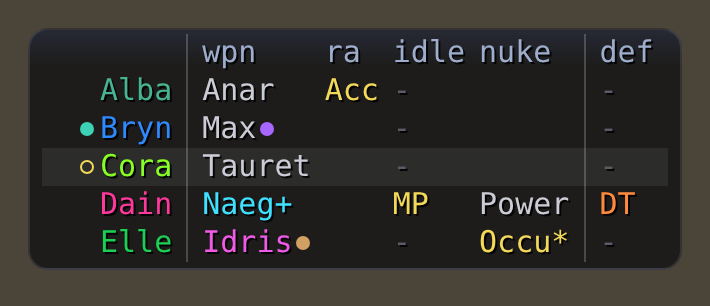
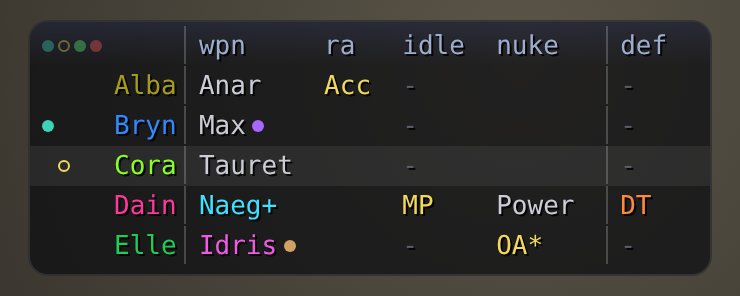
HUD fixed width with labelled state spots; RNG/COR colours; OA (#84)
* /ejenter /ejexit: Einherjar through Bellhop

/ejenter trades your lamp to the targeted Entry Gate with Bellhop's
tradenpc (a Smoldering Lamp reserves the chamber, else a Glowing Lamp
enters); the gate's menu stays manual. /ejexit is /bh drop "Glowing
Lamp". Both say so when the Bellhop plugin isn't loaded (Ashita only).
COMMANDS: the hand-out step (/bh tradeplayer + /bh whitelist).

Claude-Session: https://claude.ai/code/session_01GjFPLzfJPpNNSrzg4WuDgg

* /ejenter /ejexit: native Ashita Einherjar (Valkyrie's gate exchange), no Bellhop

/ejenter <chamber> reserves with the Smoldering Lamp, /ejenter enters the
Glowing Lamp's chamber, /ejexit drops the Glowing Lamp. Packet sequence and
chamber data follow Tny5989's Valkyrie; layouts from XiPackets.

Claude-Session: https://claude.ai/code/session_01GjFPLzfJPpNNSrzg4WuDgg

* Einherjar: copy the Glowing Lamp and trade one to each party member

After a reservation (or /ejlamps) the reserver uses the Glowing Lamp until there
is one per party member within 6 yalms, then trades each one over. Boxes running
GoomSwap in Hazhalm accept a party member's trade and confirm it when everything
offered is a Glowing Lamp. Trade packets per XiPackets / Windower fields.lua,
receiver handshake as Ivaar's Trade addon.

Claude-Session: https://claude.ai/code/session_01GjFPLzfJPpNNSrzg4WuDgg

* Einherjar lamps: accept a trade after 1s, as Alexandria does

Leaves a trade you, Bellhop or Alexandria already accepted alone.
[…]

diff --git a/README.md b/README.md
@@ -249,13 +249,14 @@ reads them twice a second (Ashita `luashitacast/hud/`, Windower IPC).
 ![The HUD, compact style](docs/hud.png)
 
 Alba: `/rangedset acc`. Bryn: `/sir`, `/wsset high`. Cora: you (band), `/th`. Dain: `/mset acc`, a slot pick (`+`),
-`/idleset refresh` (`MP`), DT. Elle: `/mset sb`, `/hoxne`, `/nukeset oa` + `/burst` (`Occu*`). Names in job colour.
+`/idleset refresh` (`MP`), DT. Elle: `/mset sb`, `/hoxne`, `/nukeset oa` + `/burst` (`OA*`). Names in job colour.
 
 - **Open:** `/gchud`; `/gchud large|compact` (large: bigger text, full names); `/gchud pos X Y` or drag (kept on
   screen; within 8px of the top or bottom it snaps flush); `/gchud debug`. `HUDOwners` boxes open it
   with every box; other boxes see their own row (empty list: everyone sees all).
 - **Names** in their main job's colour, as on the bar. **Your row:** faint band.
-- **Dots** left of the name, every one on (first nearest): teal SIR, gold ring TH, green Kite, red PROC.
+- **Dots** left of the name, each always in its own spot (faint in the header): teal SIR, gold ring TH, green Kite,
+  red PROC.
 - **`wpn`:** weapon mode (main pick if the job has none). Colour = `/mset`: grey-white Base, cyan Acc, magenta SB.
   `+` = a slot pick (`/mainset` `/subset` `/rangeset` `/ammoset`) changed. Dots after: purple `/wsset high`, bronze
   `/hoxne`. Hover: all of them. Ctrl+click: `/mset`.
@@ -272,9 +273,9 @@ Alba: `/rangedset acc`. Bryn: `/sir`, `/wsset high`. Cora: you (band), `/th`. Da
 - Click a cell: runs it on that box. Click a name: its other modes.
 - Mouse away: your row only, with just its columns; over: all (`HUDHover`). Opens upward in the screen's bottom
   half (`HUDGrow`).
-- A column shows while some box has it set (`def`: DT/MDT/Aminon on); the rest are on the detail line. Columns
-  never shrink while you play. Compact: names that fit show whole (wpn 6 letters, others 5), else `DP` `Max` `GH`
-  `KC` or 4 letters (`HUDAbbr` to set your own).
+- Fixed width: every column a shown box's job has stays (`-` when unset); folded cycles are on the detail line.
+  Compact: names that fit show whole (wpn 6 letters, others 5), else `DP` `Max` `GH` `KC` or 4 letters (`HUDAbbr`
+  to set your own); `/nukeset oa` shows `OA`.
 - The owner shows other boxes' chat lines as `[Name]` (`HUDMessages`).
 - Settings: `HUDOwners` `HUDHover` `HUDGrow` `HUDMessages` `HUDX` `HUDY` `HUDStyle` `HUDScale` `HUDScaleLarge`
   `HUDAlpha` `HUDAbbr` `HUDLabels`.
@@ -290,7 +291,8 @@ This box only. `/gcbar`, `/gcbar pos X Y` or drag (saved per character); `Displa
 - **Job**, `Atk` and `Def` (Ashita) | **modes that are set** | **toggles that are on** as dots.
 - Each of the 22 jobs its own colour, outlined: main job's half in its colour, sub job's in its.
 - Dropped within 8px of the screen's top, the bar snaps flush to it.
-- `wpn` as the HUD's: `+` slot pick, colour `/mset`, purple dot `/wsset high`, bronze `/hoxne`. `idle`: MP HP TP.
+- `wpn` as the HUD's: `+` slot pick, colour `/mset`, purple dot `/wsset high`, bronze `/hoxne`. `idle`: MP HP TP;
+  `nuke`: OA for Occult Acumen.
 - A job without weapon modes (WHM...) shows `melee` and `wsset` by name, only once changed.
 - Dots: DT orange, MDT blue, Aminon mauve, SIR teal, Kite green, Burst pink, PROC red. Rings: TH gold, Harp teal,
   Song lock purple, Death red.
